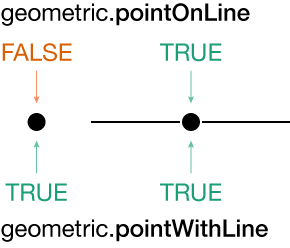
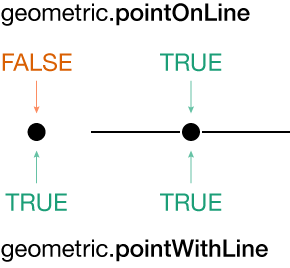
Fix diagram

diff --git a/README.md b/README.md
@@ -139,7 +139,7 @@ Returns a boolean representing whether a <em>point</em> is to the left of a <em>
 
 Returns a boolean representing whether a <em>point</em> is collinear with a <em>line</em> and is also located on the line segment. See also [pointWithLine](#pointWithLine).
 
-[<img src="https://raw.githubusercontent.com/HarryStevens/geometric/master/img/point-on-with-line.png" />](https://observablehq.com/d/c463ce4b7cbcd048)
+[<img style="width: 125px;" src="https://raw.githubusercontent.com/HarryStevens/geometric/master/img/point-on-with-line.png" />](https://observablehq.com/d/c463ce4b7cbcd048)
 
 <a name="pointRightofLine" href="#pointRightofLine">#</a> geometric.<b>pointRightofLine</b>(<em>point</em>, <em>line</em>) · [Source](https://github.com/HarryStevens/geometric/blob/master/src/relationships/pointOnLine.js#L12 "Source")
 
@@ -148,8 +148,6 @@ Returns a boolean representing whether a <em>point</em> is to the right of a <em
 <a name="pointWithLine" href="#pointWithLine">#</a> geometric.<b>pointWithLine</b>(<em>point</em>, <em>line</em>) · [Source](https://github.com/HarryStevens/geometric/blob/master/src/relationships/pointWithLine.js#L16 "Source")
 
 Returns a boolean representing whether a <em>point</em> is collinear with a <em>line</em>. See also [pointOnLine](#pointOnLine).
-
-[<img src="https://raw.githubusercontent.com/HarryStevens/geometric/master/img/point-on-with-line.png" />](https://observablehq.com/d/c463ce4b7cbcd048)
 
 <a name="polygonInPolygon" href="#polygonInPolygon">#</a> geometric.<b>polygonInPolygon</b>(<em>polygonA</em>, <em>polygonB</em>) · [Source](https://github.com/HarryStevens/geometric/blob/master/src/relationships/polygonInPolygon.js "Source")
 
